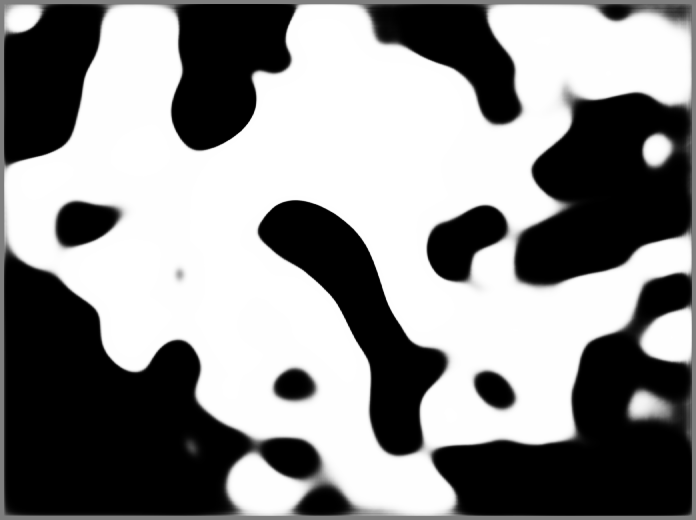
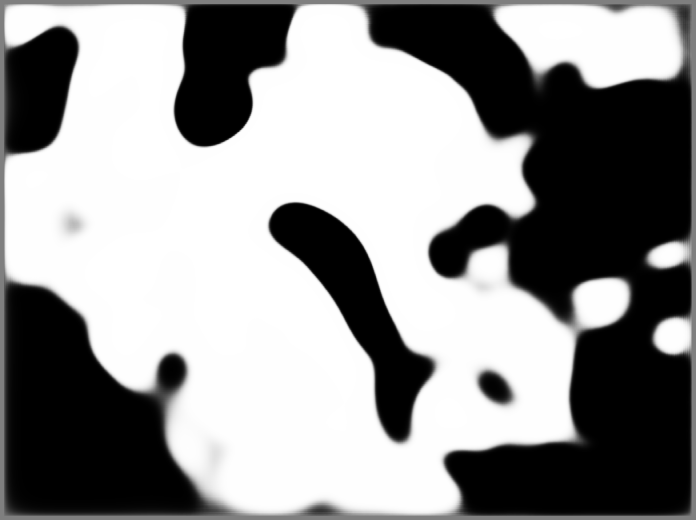
+ README.md

diff --git a/main.py b/main.py
@@ -10,7 +10,7 @@ def standardize(preimg):
     mean = np.mean(preimg)
     std = np.std(preimg)
     preimg -= mean
-    preimg /= (3. * std)
+    preimg /= (2. * std)
     preimg = np.tanh(preimg)
     return preimg
 
@@ -70,7 +70,7 @@ def train_and_predict(contTrain=True):
     model_checkpoint = ModelCheckpoint(weightFile, monitor='val_loss', save_best_only=True)
 
     print('Fitting model...')
-    model.fit(img, msk, batch_size=4, nb_epoch=12, verbose=1, shuffle=True,
+    model.fit(img, msk, batch_size=4, epochs=12, verbose=1, shuffle=True,
               validation_split=0.2, callbacks=[model_checkpoint])
 
     print('Loading and preprocessing test data...')

diff --git a/model.py b/model.py
@@ -3,8 +3,7 @@ from __future__ import print_function
 import os
 import numpy as np
 from keras.models import Model
-from keras.layers import Input, concatenate, Conv2D, MaxPooling2D, Conv2DTranspose, UpSampling2D, Cropping2D, \
-    ZeroPadding2D
+from keras.layers import Input, concatenate, Conv2D, MaxPooling2D, UpSampling2D, Cropping2D, ZeroPadding2D
 from keras import backend as KerasBackend
 
 KerasBackend.set_image_data_format('channels_last')

diff --git a/README.md b/README.md
@@ -1,2 +1,121 @@
 # LungNeuralNet
 Tensorflow Keras Lung
+
+![alt text](test/39_WT_FLU_2_04.jpg?raw=true "Original Image")
+
+![alt text](pred/39_WT_FLU_2_04.jpg_pred.png?raw=true "Recognized as inflammation")
+
+Using TensorFlow backend.
+Scanning subfolders [/ori] and [/msk] of [.\LungNeuralNet]
+53 images and 60 masks found
+53 image-mask pairs accepted
+Done: 0/53 images
+Done: 1/53 images
+Done: 2/53 images
+Done: 3/53 images
+Done: 4/53 images
+Done: 5/53 images
+Done: 6/53 images
+Done: 7/53 images
+Done: 8/53 images
+Done: 9/53 images
+Done: 10/53 images
+Done: 11/53 images
+Done: 12/53 images
+Done: 13/53 images
+Done: 14/53 images
+Done: 15/53 images
+Done: 16/53 images
+Done: 17/53 images
+Done: 18/53 images
+Done: 19/53 images
+Done: 20/53 images
+Done: 21/53 images
+Done: 22/53 images
+Done: 23/53 images
+Done: 24/53 images
+Done: 25/53 images
+Done: 26/53 images
+Done: 27/53 images
+Done: 28/53 images
+Done: 29/53 images
+Done: 30/53 images
+Done: 31/53 images
+Done: 32/53 images
+Done: 33/53 images
+Done: 34/53 images
+Done: 35/53 images
+Done: 36/53 images
+Done: 37/53 images
+Done: 38/53 images
+Done: 39/53 images
+Done: 40/53 images
+Done: 41/53 images
+Done: 42/53 images
+Done: 43/53 images
+Done: 44/53 images
+Done: 45/53 images
+Done: 46/53 images
+Done: 47/53 images
+Done: 48/53 images
+Done: 49/53 images
+Done: 50/53 images
+Done: 51/53 images
+Done: 52/53 images
+Creating model and checkpoint...
+Fitting model...
+Train on 42 samples, validate on 11 samples
+Epoch 1/12
+ 4/42 [=>............................] - ETA: 56s - loss: -0.3279 - dice_coef: 0.3279
+ 8/42 [====>.........................] - ETA: 27s - loss: -0.3369 - dice_coef: 0.3369
+12/42 [=======>......................] - ETA: 17s - loss: -0.3644 - dice_coef: 0.3644
+16/42 [==========>...................] - ETA: 11s - loss: -0.3764 - dice_coef: 0.3764
+20/42 [=============>................] - ETA: 8s - loss: -0.3673 - dice_coef: 0.3673
+24/42 [================>.............] - ETA: 6s - loss: -0.3627 - dice_coef: 0.3627
+28/42 [===================>..........] - ETA: 4s - loss: -0.3824 - dice_coef: 0.3824
+32/42 [=====================>........] - ETA: 2s - loss: -0.3837 - dice_coef: 0.3837
+36/42 [========================>.....] - ETA: 1s - loss: -0.3859 - dice_coef: 0.3859
+40/42 [===========================>..] - ETA: 0s - loss: -0.3750 - dice_coef: 0.3750
+42/42 [==============================] - 14s 324ms/step - loss: -0.3761 - dice_coef: 0.3761 - val_loss: -0.3885 - val_dice_coef: 0.3885
+Epoch 2/12
+
+ 4/42 [=>............................] - ETA: 4s - loss: -0.3637 - dice_coef: 0.3637
+ 8/42 [====>.........................] - ETA: 3s - loss: -0.3593 - dice_coef: 0.3593
+12/42 [=======>......................] - ETA: 3s - loss: -0.3687 - dice_coef: 0.3687
+16/42 [==========>...................] - ETA: 2s - loss: -0.3739 - dice_coef: 0.3739
+20/42 [=============>................] - ETA: 2s - loss: -0.3868 - dice_coef: 0.3868
+24/42 [================>.............] - ETA: 2s - loss: -0.3705 - dice_coef: 0.3705
+28/42 [===================>..........] - ETA: 1s - loss: -0.3797 - dice_coef: 0.3797
+32/42 [=====================>........] - ETA: 1s - loss: -0.3788 - dice_coef: 0.3788
+36/42 [========================>.....] - ETA: 0s - loss: -0.3865 - dice_coef: 0.3865
+40/42 [===========================>..] - ETA: 0s - loss: -0.3700 - dice_coef: 0.3700
+42/42 [==============================] - 5s 122ms/step - loss: -0.3754 - dice_coef: 0.3754 - val_loss: -0.3894 - val_dice_coef: 0.3894
+...
+Epoch 12/12
+
+ 4/42 [=>............................] - ETA: 4s - loss: -0.8374 - dice_coef: 0.8374
+ 8/42 [====>.........................] - ETA: 3s - loss: -0.7519 - dice_coef: 0.7519
+12/42 [=======>......................] - ETA: 3s - loss: -0.7527 - dice_coef: 0.7527
+16/42 [==========>...................] - ETA: 2s - loss: -0.7819 - dice_coef: 0.7819
+20/42 [=============>................] - ETA: 2s - loss: -0.7735 - dice_coef: 0.7735
+24/42 [================>.............] - ETA: 2s - loss: -0.7442 - dice_coef: 0.7442
+28/42 [===================>..........] - ETA: 1s - loss: -0.7115 - dice_coef: 0.7115
+32/42 [=====================>........] - ETA: 1s - loss: -0.7042 - dice_coef: 0.7042
+36/42 [========================>.....] - ETA: 0s - loss: -0.7066 - dice_coef: 0.7066
+40/42 [===========================>..] - ETA: 0s - loss: -0.6901 - dice_coef: 0.6901
+42/42 [==============================] - 5s 123ms/step - loss: -0.6787 - dice_coef: 0.6787 - val_loss: -0.7105 - val_dice_coef: 0.7105
+Loading and preprocessing test data...
+Scanning test subfolders [/test] of [D:\Cel files\2018-07.08 Keras Tensorflow 2X IMAGES\LungNeuralNet]
+Done: 0/7 images
+Done: 1/7 images
+Done: 2/7 images
+Done: 3/7 images
+Done: 4/7 images
+Done: 5/7 images
+Done: 6/7 images
+Predicting masks on test data...
+
+7/7 [==============================] - 2s 264ms/step
+Saving predicted masks to files...
+
+Process finished with exit code 0
